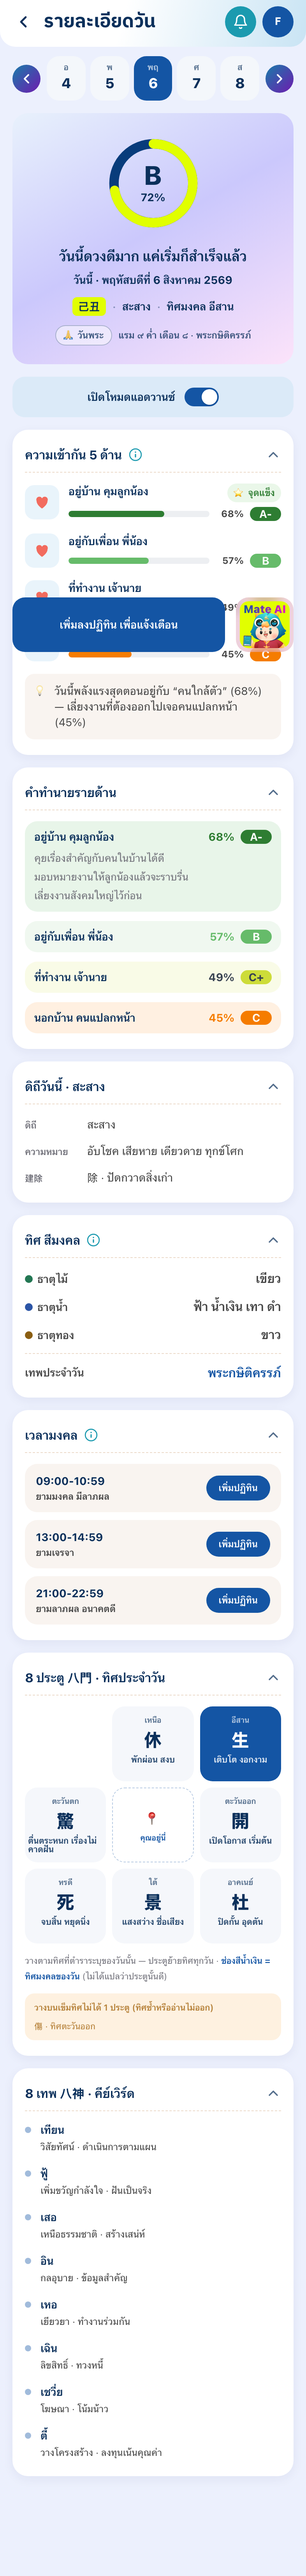
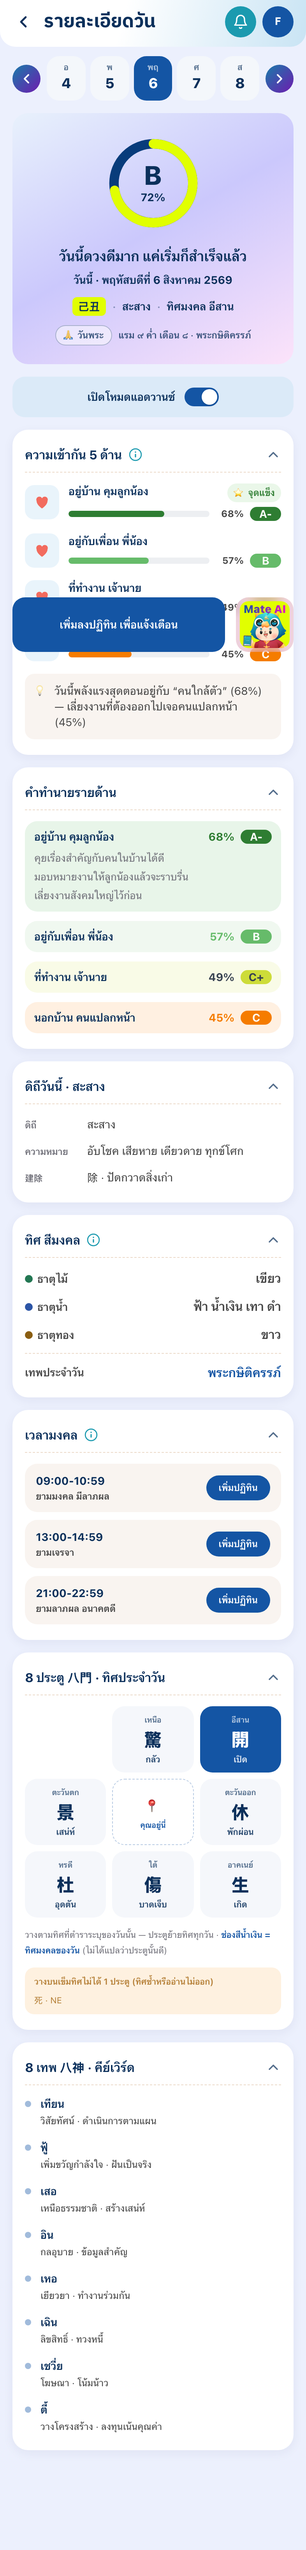
fix(gate-compass): drop the parser branch nothing produces, and repair what depended on it
ตู๋ grepped the repo: full Thai direction phrases appear in exactly three places and all
three are fake — the fixture and two tests. No producer emits them.

So accepting them was not tolerance, it was converting a loud failure into a silent pass:
bad fixture values sailed through the parser and nothing would ever have told us the
branch was dead. Same family as the vacuous checks we spent the day removing.

I had reached for the wrong fix first — saw the fixture disagree with the backend and
widened real code to accept it. The fixture was what needed repairing.

Two forms remain, one per real producer: 'NE' from gates[].direction and 'ทิศ SE' from
lucky_dir. Thai phrases are now asserted REFUSED, so if the backend ever starts sending
them the change has to be made deliberately.

Claude-Session: https://claude.ai/code/session_011vAZh55oNX6jdVoo1XrZLJ

Changed region(s): [[0.0611, 0.0312, 0.9466, 0.967], [0.6718, 0.3119, 0.7634, 0.3431]]

diff --git a/scripts/gate-compass.test.ts b/scripts/gate-compass.test.ts
@@ -119,20 +119,17 @@ console.log('\n— direction parsing: forgiving about spelling, strict about mea
 ok('"NW" reads as NW', normalizeDirection('NW') === 'NW')
 ok('"ทิศ NW" reads as NW (the wire has used this prefix)', normalizeDirection('ทิศ NW') === 'NW')
 ok('" nw " reads as NW', normalizeDirection(' nw ') === 'NW')
-// the Thai vocabulary the FIXTURE actually uses. Without these, a real payload spelled this way would put
-// every gate in `unplaced` and the board would be empty — the mock-data trap, asserted rather than assumed.
-ok('"ทิศเหนือ" reads as N', normalizeDirection('ทิศเหนือ') === 'N')
-ok('"ทิศใต้" reads as S', normalizeDirection('ทิศใต้') === 'S')
-ok('"ทิศตะวันออก" reads as E', normalizeDirection('ทิศตะวันออก') === 'E')
-ok('"ทิศตะวันตก" reads as W', normalizeDirection('ทิศตะวันตก') === 'W')
-// the four compound points are the ones a prefix match gets WRONG — NE would read as E
-ok('"ทิศตะวันออกเฉียงเหนือ" reads as NE, not E', normalizeDirection('ทิศตะวันออกเฉียงเหนือ') === 'NE')
-ok('"ทิศตะวันออกเฉียงใต้" reads as SE, not E', normalizeDirection('ทิศตะวันออกเฉียงใต้') === 'SE')
-ok('"ทิศตะวันตกเฉียงเหนือ" reads as NW, not W', normalizeDirection('ทิศตะวันตกเฉียงเหนือ') === 'NW')
-ok('"ทิศตะวันตกเฉียงใต้" reads as SW, not W', normalizeDirection('ทิศตะวันตกเฉียงใต้') === 'SW')
-// every Thai name maps to a DIFFERENT point — a table that collapsed two of them would still "work"
-ok('the 8 Thai names map to 8 distinct points',
-  new Set(['ทิศเหนือ', 'ทิศใต้', 'ทิศตะวันออก', 'ทิศตะวันตก', 'ทิศตะวันออกเฉียงเหนือ', 'ทิศตะวันออกเฉียงใต้', 'ทิศตะวันตกเฉียงเหนือ', 'ทิศตะวันตกเฉียงใต้'].map((t) => normalizeDirection(t))).size === 8)
+// The wire has exactly TWO producers, so exactly two forms are accepted:
+//   gates[].direction  → 'NE'        (bare short code)
+//   luckyDirection     → 'ทิศ SE'    (same code, 'ทิศ ' prefix)
+ok('"ทิศ SE" reads as SE (lucky_dir\'s shape)', normalizeDirection('ทิศ SE') === 'SE')
+ok('"ทิศ N" reads as N', normalizeDirection('ทิศ N') === 'N')
+// Full Thai phrases are REFUSED on purpose. They exist in this repo only as fake fixture/test values, and
+// a parser branch with no producer turns a loud failure into a silent pass — ตู๋ 2026-08-06. If the backend
+// ever starts emitting them, these assertions are what forces the change to be made deliberately.
+for (const thaiLong of ['ทิศตะวันออก', 'ทิศเหนือ', 'ทิศตะวันออกเฉียงเหนือ', 'ทิศตะวันตกเฉียงใต้']) {
+  ok(`"${thaiLong}" is REFUSED (no real producer emits it)`, normalizeDirection(thaiLong) === null)
+}
 for (const junk of ['', 'C', 'CENTRE', 'NNW', '財', 'up', null, undefined]) {
   ok(`${JSON.stringify(junk)} is refused rather than guessed`, normalizeDirection(junk as string) === null)
 }

diff --git a/harness/capture-daydetail-md.ts b/harness/capture-daydetail-md.ts
@@ -8,11 +8,9 @@
 //
 // Two boards are captured on purpose:
 //   complete — the 8 distinct compass directions a real man-vs-day payload sends
-//   partial  — a board that CANNOT be filled, because two gates claim the same direction. This was
-//              features/v2-calendar/fixtures.ts verbatim until this PR repaired it; the payload is kept
-//              exactly as it was so the screen's behaviour on a broken board stays photographed. The
-//              backend's own table has no such row (209/209 are 8-distinct), but the screen must not
-//              quietly show seven squares if one ever arrives.
+//   partial  — a board that CANNOT be filled, because two gates claim the same direction. The backend's
+//              own table has no such row (209/209 are 8-distinct), but fixtures.ts shipped one until this
+//              PR, so the screen must not quietly show seven squares if one ever arrives.
 //
 //   npx tsx --tsconfig harness/tsconfig.json harness/capture-daydetail-md.ts   (dev server up)
 import { chromium, type Browser } from 'playwright'
@@ -43,16 +41,18 @@ const GATES_COMPLETE = [
   { name: '杜', direction: 'N', meaning: 'อุดตัน' }, { name: '景', direction: 'NE', meaning: 'เสน่ห์' },
   { name: '死', direction: 'E', meaning: 'ตาย' }, { name: '驚', direction: 'SE', meaning: 'กลัว' },
 ]
-// what fixtures.ts shipped before this PR — ทิศตะวันออก twice, ทิศตะวันตกเฉียงเหนือ missing entirely
+// a board that CANNOT be filled: 死 repeats 開's direction and NW is therefore absent. Uses the REAL
+// vocabulary (short codes) — the earlier version used full Thai phrases, which the parser no longer reads
+// at all, so it would have proved "8 unreadable" rather than "two gates fought over one square".
 const GATES_PARTIAL = [
-  { name: '開', direction: 'ทิศตะวันออก', meaning: 'เปิดโอกาส เริ่มต้น' },
-  { name: '休', direction: 'ทิศเหนือ', meaning: 'พักผ่อน สงบ' },
-  { name: '生', direction: 'ทิศตะวันออกเฉียงเหนือ', meaning: 'เติบโต งอกงาม' },
-  { name: '傷', direction: 'ทิศตะวันออก', meaning: 'บาดเจ็บ ระวังของมีคม' },
-  { name: '杜', direction: 'ทิศตะวันออกเฉียงใต้', meaning: 'ปิดกั้น อุดตัน' },
-  { name: '景', direction: 'ทิศใต้', meaning: 'แสงสว่าง ชื่อเสียง' },
-  { name: '死', direction: 'ทิศตะวันตกเฉียงใต้', meaning: 'จบสิ้น หยุดนิ่ง' },
-  { name: '驚', direction: 'ทิศตะวันตก', meaning: 'ตื่นตระหนก เรื่องไม่คาดฝัน' },
+  { name: '開', direction: 'NE', meaning: 'เปิด' },
+  { name: '休', direction: 'E', meaning: 'พักผ่อน' },
+  { name: '生', direction: 'SE', meaning: 'เกิด' },
+  { name: '傷', direction: 'S', meaning: 'บาดเจ็บ' },
+  { name: '杜', direction: 'SW', meaning: 'อุดตัน' },
+  { name: '景', direction: 'W', meaning: 'เสน่ห์' },
+  { name: '死', direction: 'NE', meaning: 'ตาย' },
+  { name: '驚', direction: 'N', meaning: 'กลัว' },
 ]
 
 function libDetail(date: string, gates: typeof GATES_COMPLETE) {

diff --git a/features/v2-calendar/components/day-detail/gate-compass.ts b/features/v2-calendar/components/day-detail/gate-compass.ts
@@ -77,38 +77,20 @@ export const DIR_CELL: Record<Direction, Cell> = {
  * bazi-testenv/src/lib/bazi/data/almanac/day-month-table.json stores gate rows as [glyph, direction] pairs
  * and the direction is a SHORT COMPASS CODE —
  *     [["開","NE"],["休","E"],["生","SE"],["傷","S"],["杜","SW"],["景","W"],["死","NW"],["驚","N"]]
- * Across all 212 rows in that table: 209 carry exactly the 8 codes, 8 distinct, ZERO rows repeat a
- * direction. (The other 3 hold 八神 keywords where directions should be — a known column-shift the engine
- * already guards at almanac-engine.ts:356 by falling back to day-pillar-table.)
+ * Across all 212 rows: 209 carry exactly the 8 codes, 8 distinct, ZERO rows repeat a direction. (The other
+ * 3 hold 八神 keywords where directions should be — a column-shift the engine already guards at
+ * almanac-engine.ts:356.) `lucky_dir` is its own shape: 'ทิศ ' + the same short code ('ทิศ SE', 'ทิศ N').
  *
- * So the real wire speaks short codes. Thai phrases are read too, because features/v2-calendar/fixtures.ts
- * sends 'ทิศตะวันออกเฉียงเหนือ' — the FIXTURE disagrees with the backend it stands in for. That is the
- * mock-data trap in the open: a parser written against either vocabulary alone would silently place nothing
- * the day it met the other one. Both are read; anything else is refused and surfaced.
- *
- * Longest-first matters: 'ตะวันออกเฉียงเหนือ' contains 'ตะวันออก', so a prefix match would read NE as E.
- * Exact keys avoid that entirely.
- */
-const THAI_DIRECTION: Record<string, Direction> = {
-  เหนือ: 'N',
-  ใต้: 'S',
-  ตะวันออก: 'E',
-  ตะวันตก: 'W',
-  ตะวันออกเฉียงเหนือ: 'NE',
-  ตะวันออกเฉียงใต้: 'SE',
-  ตะวันตกเฉียงเหนือ: 'NW',
-  ตะวันตกเฉียงใต้: 'SW',
-}
-
-/**
- * Read a wire direction in either vocabulary, and REFUSE everything else instead of guessing — an
- * unrecognised direction must become a visible gap, never a gate quietly placed somewhere plausible.
+ * TWO FORMS ARE ACCEPTED, AND ONLY TWO — because only two have a real producer. An earlier version also
+ * read full Thai phrases ('ทิศตะวันออกเฉียงเหนือ'), which appear in exactly three places in this repo and
+ * all three are FAKE (the fixture and two tests, now repaired). ตู๋'s objection is the same family we spent
+ * the day killing: a parser branch with no producer does not add tolerance, it converts a LOUD failure into
+ * a SILENT pass, so bad fake data sails through and nothing ever tells us the branch is dead.
  */
 export function normalizeDirection(raw: string | null | undefined): Direction | null {
   if (typeof raw !== 'string') return null
-  const s = raw.trim().replace(/^ทิศ\s*/, '').replace(/\s+/g, '')
-  if (THAI_DIRECTION[s]) return THAI_DIRECTION[s]
-  const up = s.toUpperCase()
+  // strips the 'ทิศ ' that lucky_dir carries; gates[].direction has no prefix. Nothing else is tolerated.
+  const up = raw.trim().replace(/^ทิศ\s*/, '').replace(/\s+/g, '').toUpperCase()
   return (DIRECTIONS as readonly string[]).includes(up) ? (up as Direction) : null
 }
 

diff --git a/scripts/day-detail.test.ts b/scripts/day-detail.test.ts
@@ -33,7 +33,9 @@ const MVD = {
     { key: 'health', label: 'สุขภาพ', percent: 48, grade: 'C', isMain: false, lines: [] },
   ],
   almanac: { luckyHours: [{ code: 'B8', range: '1:00-2:59', god: 'เหง็กอ๋วง', meaning: 'ดี' }] },
-  luckyDirection: 'ทิศตะวันออก', // G-3: man-vs-day emits ทิศมงคล per day (lucky_dir almanac column)
+  // real lucky_dir shape: 'ทิศ ' + short code (the almanac data holds ทิศ N · ทิศ S · ทิศ E · ทิศ W · ทิศ SE).
+  // Was 'ทิศตะวันออก', a form nothing actually emits — มุน 2026-08-06 on ตู๋'s catch.
+  luckyDirection: 'ทิศ E',
   person: { fourPillars: { year: { stem: '庚' }, month: {}, day: {}, hour: {} } },
 }
 const ALMANAC_DAY = {
@@ -75,7 +77,7 @@ ok('dayPillars ← almanac day/month/year (with element)', d.dayPillars.day?.ele
 ok('ownerPillars ← person.fourPillars (raw block)', JSON.stringify(d.ownerPillars) === JSON.stringify(MVD.person.fourPillars))
 ok('dithi ← officer + officerDesc + jianchu', d.dithi.officer === 'สะสาง' && d.dithi.jianchu === 'เตีย · มัดจำ จองจำ')
 // G-3 chips: officer (dithi) + luckyDirection, RAW; the 財 chip is cut (bazi's 8 gates have no 財).
-ok('luckyDirection ← man-vs-day (raw ทิศมงคล, a chip; 財 cut)', d.luckyDirection === 'ทิศตะวันออก')
+ok('luckyDirection ← man-vs-day (raw ทิศมงคล, a chip; 財 cut)', d.luckyDirection === 'ทิศ E')
 ok('gates ← 8 raw, NO good/bad level added (ตำราไม่มี)', d.gates.length === 8 && !('level' in d.gates[0]) && d.gates[0].name === 'G0')
 ok('colors ← raw Thai names, NO hex (งานดีไซน์)', d.colors[0].colors === 'ขาว' && !/^#/.test(d.colors[0].colors))
 

diff --git a/scripts/day-detail-fetch.test.ts b/scripts/day-detail-fetch.test.ts
@@ -22,10 +22,10 @@ async function run() {
   let body: Record<string, unknown> = {}
   globalThis.fetch = (async (_url: string, init: { body: string }) => {
     body = JSON.parse(init.body)
-    return { ok: true, json: async () => ({ detail: { date: '2026-08-05', luckyDirection: 'ทิศตะวันออก' }, cached: false }) }
+    return { ok: true, json: async () => ({ detail: { date: '2026-08-05', luckyDirection: 'ทิศ E' }, cached: false }) }
   }) as unknown as typeof fetch
   const okRes = await fetchDayDetail(person, 'user-1', '2026-08-05')
-  ok('success parses detail', okRes.detail?.date === '2026-08-05' && okRes.detail?.luckyDirection === 'ทิศตะวันออก')
+  ok('success parses detail', okRes.detail?.date === '2026-08-05' && okRes.detail?.luckyDirection === 'ทิศ E')
   ok('sends person+userId+date in body', body.userId === 'user-1' && body.date === '2026-08-05' && !!body.person)
 
   // cached passthrough

diff --git a/harness/md-daydetail.verify-evidence.md b/harness/md-daydetail.verify-evidence.md
@@ -50,14 +50,16 @@ ANCHOR: scripts/gate-compass.test.ts#mut-compass-inverted
 > ไม่ใช่กระจกลึกลับ — **มันคือวงล้อที่หมุนทุกวัน** ผมบังเอิญจับตอนมันหมุนครบครึ่ง
 > **ถ้าเจอวันที่หมุน 1 ช่อง ผมอาจไม่สังเกตเลย และเราคงชิปไปแล้ว**
 
-**3 รูปแบบทิศในระบบเดียว**: `gates="NE"` · `lucky_dir="ทิศ SE"` · `fixture="ทิศตะวันออกเฉียงเหนือ"`
-⇒ parser รับทั้งสาม · **อะไรที่อ่านไม่ออก โผล่เป็นกล่องเตือน ไม่หายเงียบ** — ตัวที่หายเงียบคือตัวที่ฆ่าเรา
+**ของจริงมี 2 รูปเท่านั้น**: `gates="NE"` · `lucky_dir="ทิศ SE"`
+รูปที่ 3 (`ทิศตะวันออกเฉียงเหนือ`) โผล่ใน repo แค่ 3 ที่ และ**ปลอมทั้งหมด** (fixture + test 2 ไฟล์)
+⇒ **ตัดสาขาที่ 3 ออกจาก parser** (ตู๋) — สาขาที่ไม่มีผู้ผลิตจริง **ไม่ได้เพิ่มความยืดหยุ่น มันเปลี่ยนล้มดังเป็นผ่านเงียบ**
+⇒ ซ่อมของปลอมทั้ง 3 ที่ให้เป็นค่าจริง · **อะไรที่อ่านไม่ออก โผล่เป็นกล่องเตือน ไม่หายเงียบ**
 
 ## adversary sign-off
 
 **สิ่งที่พยายามหักล้างของตัวเอง**
 
-1. **🔴 กับดัก mock — เกือบพลาดเอง** เขียน `normalizeDirection` รับแค่ `'NW'/'S'` เพราะโน้ตผมเองเขียนย่อว่า "ทิศ S" · เปิด `fixtures.ts` แล้วเจอว่าท่อส่ง **`'ทิศตะวันออกเฉียงเหนือ'`** ⇒ ถ้าไม่เปิดดู **ทุกประตูจะตกไป `unplaced` และบอร์ดว่างเปล่า** ⇒ รับทั้งสองคำ + assert ว่าคำประสม 4 ตัวไม่ถูกอ่านเป็นทิศหลัก (prefix match จะอ่าน NE เป็น E)
+1. **🔴 กับดัก mock — และผมแก้ผิดทางรอบแรก** เห็น `fixtures.ts` ส่งไทยยาว เลยขยาย parser ให้รับ ⇒ **ตู๋ทักว่าไม่มีผู้ผลิตจริงสักราย** ⇒ ผมกำลังขยาย parser เพื่อให้**ของปลอมที่ผิดผ่านได้** ⇒ ตัดสาขาออก แล้ว**ซ่อมของปลอมแทน** · บทเรียน: **เจอ mock ไม่ตรงของจริง ให้ซ่อม mock ไม่ใช่ยืดโค้ดจริงไปรับมัน**
 2. **โพรบผิด 2 รอบ ของถูก** — (ก) toggle แอดวานซ์เปิดเป็นค่าเริ่มต้น ผมกดปิดแล้วเรียกว่า "advanced" (ข) stub ใส่ `isMain` แต่ BFF คืน shape ที่ใช้ `isStrength` ⇒ ไม่มีการ์ดไหนได้ advice · **แก้ stub ไม่ใช่แก้ของ**
 3. **🔴 3 บั๊กที่เจอด้วยตาจากภาพ ไม่ใช่จากด่าน** — chip โชว์ `NE` ดิบในจอไทย · ป้าย 8 เทพ `name.slice(0,1)` ตัดสระนำไทยได้ `เ` ลอยเดี่ยว 5 ตัวเหมือนกันหมด · สีพื้นการ์ด DayStrip มาจาก % ปลอม (บองสั่งตัดแค่เลข แต่**สีก็พูดว่าวันดี/ร้าย**เหมือนกัน)
 4. **ยังไม่ครอบ (A2 ไม่อ้างว่าครอบ)** — ชั้น DOM/พิกเซลของเข็มทิศ **ไม่ได้ทำ ตามที่บองสั่งตัด** พร้อมเงื่อนไขกลับมาทำเขียนไว้ในไฟล์ · viewport นอก 393 · ยังไม่ยืนยันว่า backend จริงสะกดทิศแบบไหน (จึงรับทั้งสอง)
